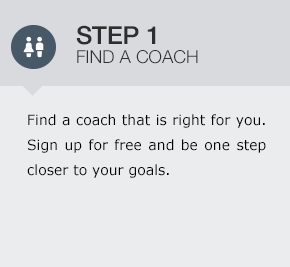
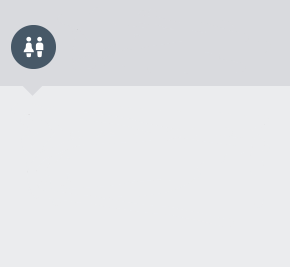
change home page and search bar.

diff --git a/skin/frontend/default/netiksolutions/css/styles_chen.css b/skin/frontend/default/netiksolutions/css/styles_chen.css
@@ -19,6 +19,10 @@
 	font-family: 'Helveticaneue Thin';
 	src: url('fonts/helvetica_neue_lt_com/HelveticaNeueLTCom-Lt.ttf') format('truetype');
 }
+@font-face {
+	font-family: 'Univers Ultra Thin';
+	src: url('fonts/UniversUltraCondensedThin.ttf') format('truetype');
+}
 
 h1, h2, h3, h4, h5, h6 {
 	color: #313232;
@@ -365,17 +369,18 @@ p.header-description {
     margin-right: 10px;
     margin-top: -7px;
     width: 30px;
+	min-height: 5px;
 	display: none;
 }
 .footer .footer-top-div-4 h2 {
 	margin-bottom: 0px; 
 }
 .header .form-search button.amplifier-image-btn {
-    height: 15px;
-    left: -30px;
-    padding-top: 4px;
+    height: 20px;
+    left: -40px;
+    padding-top: 7px;
     position: relative;
-    width: 15px;
+    width: 25px;
 	background:none;
 	border:none;
 }
@@ -385,24 +390,25 @@ p.header-description {
 }
 .header .form-search {
 	position: relative;
-	width: 400px;
+	width: 500px;
 	right: 0px;
 	background-color: #465666;
 	border-radius: 5px;
 	padding: 5px;
-	height: 21px;
+	height: 33px;
 }
 .header .quick-access {
 	width: 900px;
 }
 #search-input-form {
-	width: 450px;
+	width: 520px;
 	float: left; 
 	min-height: 5px;
+	margin-top: -2px; 
 }
 #top-links {
 	height: 20px;
-	width: 300px;
+	width: 225px;
 	float: left;
 	padding-top: 10px;
 	
@@ -414,11 +420,19 @@ p.header-description {
 	float: left; 
 }
 input#search {
-	font-size: 10px;
-	width: 230px;
+	font-size: 11px;
+	width: 310px;
+	padding-left: 20px;
+	font-family: 'Conv_UniversLTStd BoldCn';
+	height: 27px;
+	color: #425560;
 }
 select#search-select {
-	font-size: 10px;
+	font-size: 11px;
+	font-family: 'Conv_UniversLTStd BoldCn';
+	height: 33px; 
+	color: #425560;
+	margin-top: -20px;
 }
 #email-img {
 	padding-top: 3px;
@@ -430,5 +444,129 @@ select#search-select {
 .header .welcome-msg {
 	float: left;
 	margin-left: 50px;
-	margin-top: -22px; 
+	font-family: 'Conv_UniversLTStd BoldCn';
+	text-transform: uppercase; 
+	
+}
+#search-bar-above-slide {
+	position: absolute;
+	top: 300px;
+	z-index: 1000000;
+	width: 900px;
+	margin-left: -450px;
+	left: 50%;
+	text-align: left;
+}
+#search-bar-above-slide h1 {
+	font-size: 40px; 
+	text-transform: uppercase; 
+	color: #FFF;
+	font-family: 'Conv_UniversLTStd BoldCn';
+	
+}
+#search-bar-above-slide h3 {
+	font-size: 16px; 
+	text-transform: uppercase; 
+	color: #FFF;
+	font-family: 'Conv_UniversLTStd BoldCn';
+	/*font-family: 'Univers Ultra Thin';*/
+	font-weight: normal;
+	margin-bottom: 21px; 
+	
+}
+#search-bar-above-slide div.form-search {
+	width: 780px;
+}
+#search-bar-above-slide div.form-search input#search {
+	height: 35px; 
+	width: 500px; 
+	border-radius: 5px; 
+	padding-left: 30px;
+	font-family: 'Conv_UniversLTStd BoldCn';
+	color: #425560;
+	font-size: 16px; 
+}
+#search-bar-above-slide div.form-search select#search-select {
+	height: 40px; 
+	width: 200px; 
+	border-radius: 5px; 
+	padding-left: 15px;
+	font-family: 'Conv_UniversLTStd BoldCn';
+	color: #425560;
+	font-size: 16px;
+	position: relative; 
+	top: 10px;
+} 
+#search-bar-above-slide .form-search {
+	background-color: #425560;
+	padding: 5px; 
+	border-radius: 5px; 
+	color: #425560;
+
+	
+}
+#search-bar-above-slide .form-search button.amplifier-image-btn {
+    height: 30px;
+    left: -45px;
+    padding-top: 4px;
+    position: relative;
+    width: 30px;
+	background:none;
+	border:none;
+}
+#search-bar-above-slide .form-search button.amplifier-image-btn span {
+	border: none;
+	background: none;
+}
+p.or {
+color: #FFF;
+width: 5px;
+margin: 0px;
+padding: 0px;
+float: left;
+position: relative;
+left: -20px;
+top: 10px; 
+	font-family: 'Conv_UniversLTStd BoldCn';
+}
+#search-bar-above-slide p.or {
+	left: 548px;
+	
+}
+.step-overlay {
+	position: relative; 
+	z-index: 2000;
+	top: -250px;
+	width: 260px;
+	margin-left: -130px;
+	left: 50%;
+	text-align: left;
+}
+.work-steps {
+	width: 390px;
+	float: left; 
+}
+.step-overlay h2, .step-overlay h3 {
+	margin-left: 55px; 
+}
+.step-overlay h2 {
+	color: #2F3030; 
+	font-size: 22px; 
+	font-family: 'Helveticaneue';
+	margin-top: 5px;
+}
+.step-overlay h3 {
+	color: #475867;
+	font-size: 16px; 
+	font-family: 'Helveticaneue Thin';
+	margin-bottom: 40px;
+	position: relative; 
+	top: -10px; 
+}
+.step-overlay p {
+	color: #62615D; 
+	font-family: 'Verdana';
+	font-size:13px; 
+	text-align:justify;
+	
 }

diff --git a/skin/frontend/default/netiksolutions/css/magestore/sociallogin.css b/skin/frontend/default/netiksolutions/css/magestore/sociallogin.css
@@ -224,7 +224,7 @@ a#magestore-forgot-password {
 }
 .sociallogin-input-box .input-text{
 	border: 1px solid #CCCCCC;
-    border-radius: 2px 2px 2px 2px;
+    border-radius: 8px;
     box-shadow: 0 2px 2px #E3E3E3 inset;
     font-family: inherit;
     font-size: 1.1em;

diff --git a/app/code/local/Netiksolutions/Service/Block/Html/Header.php b/app/code/local/Netiksolutions/Service/Block/Html/Header.php
@@ -38,7 +38,7 @@ class Netiksolutions_Service_Block_Html_Header extends Mage_Page_Block_Html_Head
     {
         if (empty($this->_data['welcome'])) {
             if (Mage::isInstalled() && Mage::getSingleton('customer/session')->isLoggedIn()) {
-                $this->_data['welcome'] = $this->__('Hi, %s', $this->escapeHtml(Mage::getSingleton('customer/session')->getCustomer()->getFirstname()));
+                $this->_data['welcome'] = $this->__('Hi %s!', $this->escapeHtml(Mage::getSingleton('customer/session')->getCustomer()->getFirstname()));
             } else {
                 $this->_data['welcome'] = Mage::getStoreConfig('design/header/welcome');
             }
